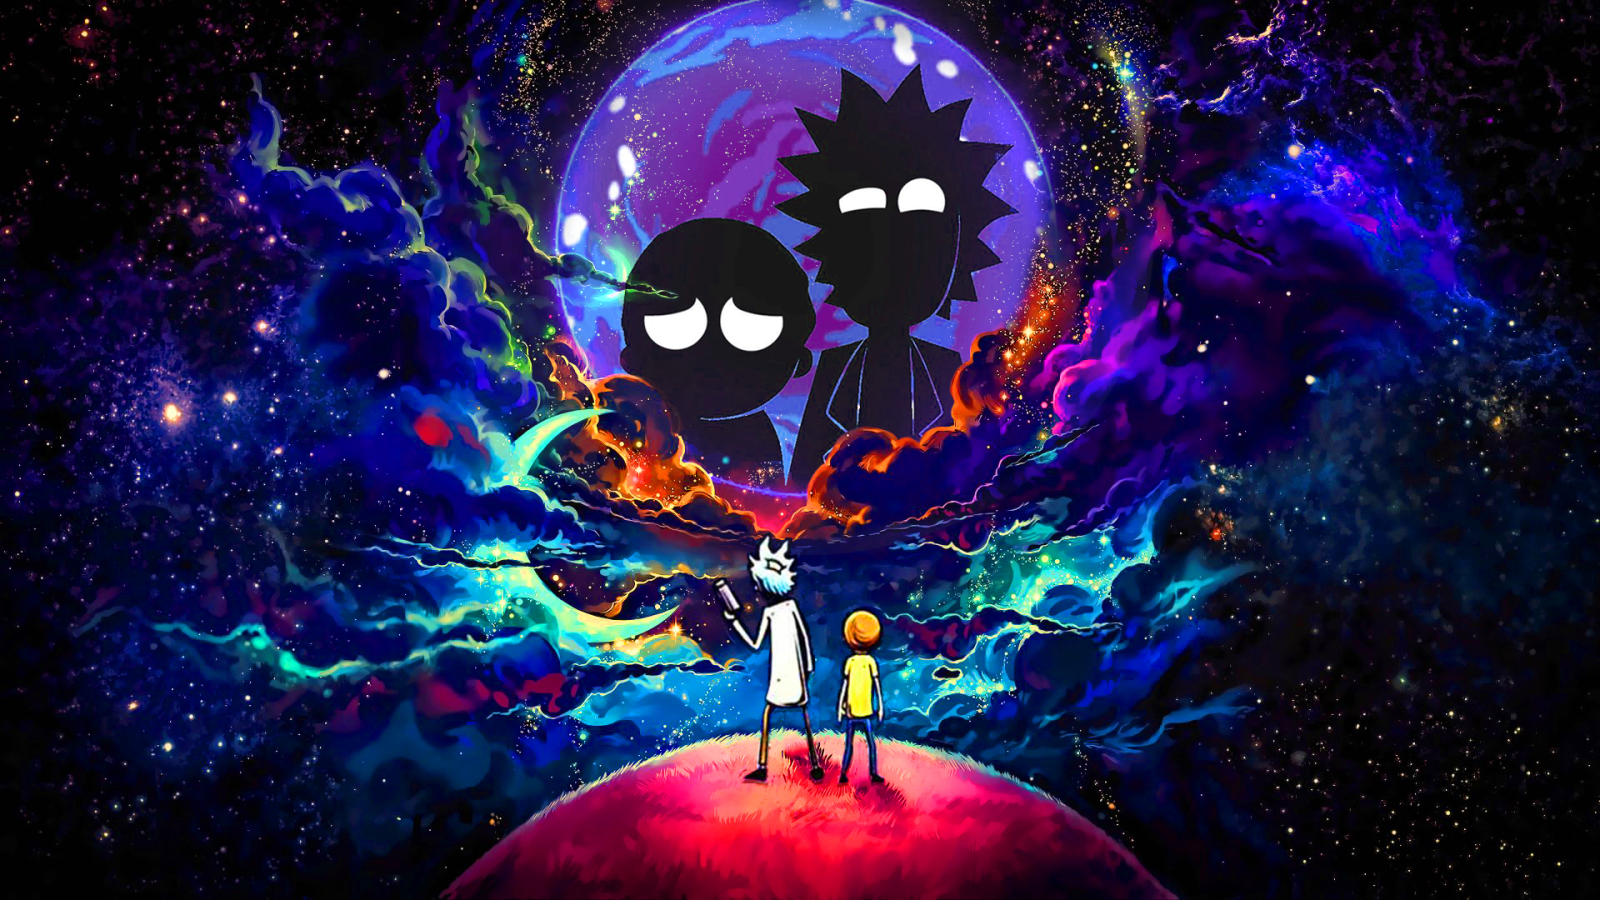
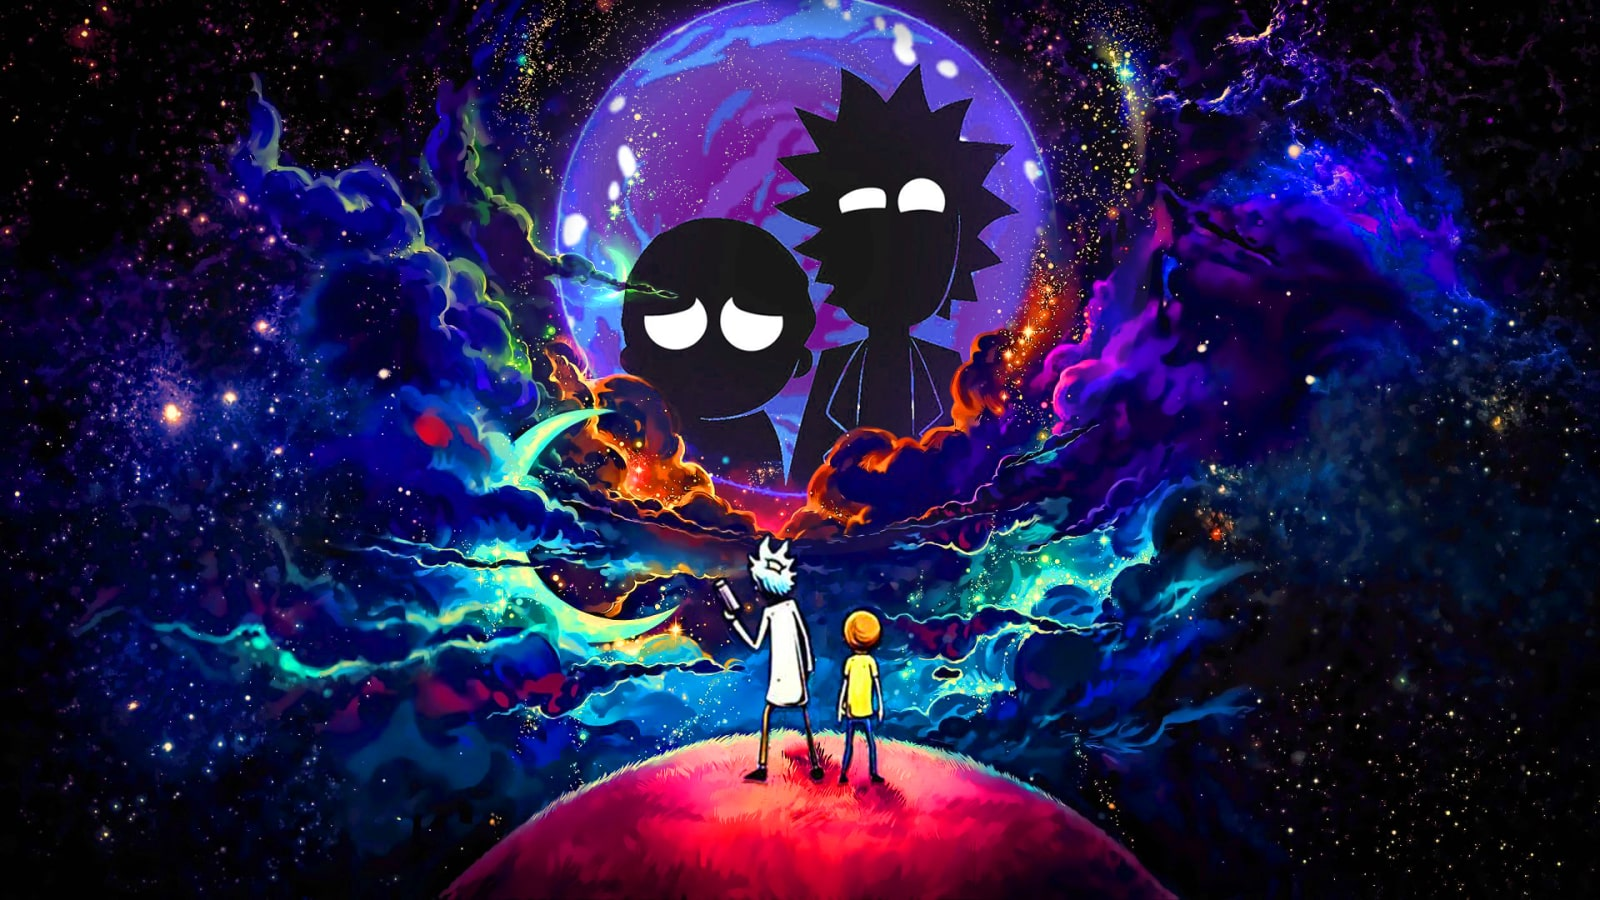
performance improvement based on lighthouse report + small bug fixes

diff --git a/src/App.tsx b/src/App.tsx
@@ -12,13 +12,13 @@ import Loading from "./components/loader";
 import { Form } from "./styledComponents/form";
 import { Catalog } from "./styledComponents/catalog";
 // Images
-import logo from "./assets/rick-and-morty-logo.png";
-import heart from "./assets/heart.png";
-import dead from "./assets/dead.png";
-import unknown from "./assets/unknown.png";
-import portal from "./assets/portal.png";
-import meeseeksBox from "./assets/meeseeksBox.png";
-import rick from "./assets/rick.png";
+import logo from "./assets/rick-and-morty-logo.webp";
+import heart from "./assets/heart.webp";
+import dead from "./assets/dead.webp";
+import unknown from "./assets/unknown.webp";
+import portal from "./assets/portal.webp";
+import meeseeksBox from "./assets/meeseeksBox.webp";
+import rick from "./assets/rick.webp";
 // APIs
 import { getCharactersData } from "./api/getCharacters";
 import { getSelectOptions } from "./api/getSelectOptions";
@@ -50,6 +50,7 @@ const App: React.FC = () => {
   const [state, dispatch] = useReducer(reducer, initialState);
   const { data, name, status, currentPage, totalPages, error, errorMessage, loading } = state
 
+  const [inputValue, setInputValue] = useState<string>('')
   const [options, setOptions] = useState<string[]>([]);
 
   // function that returns information about the characters
@@ -89,6 +90,7 @@ const App: React.FC = () => {
   // function that resets the form on button click (portal icon)
   const handleFormReset = () => {
     dispatch({ type: "RESET_FORM" })
+    setInputValue('')
   };
   // function that handles pagination
   const handlePagination = (pageNumber: number) => {
@@ -100,11 +102,12 @@ const App: React.FC = () => {
   };
   // function for the onChange event for the character's name input
   const handleChange = (e: React.ChangeEvent<HTMLInputElement>) => {
-    dispatch({ type: "INPUT_CHANGE", payload: e?.target.value })
+    setInputValue(e?.target.value)
+    debouncedInput(e?.target.value)
   };
-  /* added lodash debounce (kinda got lazy to write my own function for this) which updates the state 
-  value for the input after 0.3 seconds to minimize the number of api calls */
-  const debouncedInput = useMemo(() => debounce(handleChange, 300), []);
+  /* added lodash debounce (kinda got lazy to write my own function for this) which updates the reducer state 
+  for the input after 0.3 seconds to minimize the number of api calls */
+  const debouncedInput = useMemo(() => debounce((value) => dispatch({ type: "INPUT_CHANGE", payload: value }), 300), []);
   // onMount set the options for the select input based on the existing statuses returned from the /characters api
   useEffect(() => {
     getOptions();
@@ -116,13 +119,11 @@ const App: React.FC = () => {
 
   return (
     <Container>
-      {loading ? <Loading /> :
-        <>
           <img onClick={start} src={meeseeksBox} alt="" className="meeseeksBox" />
           <img src={logo} alt="logo" className="logo" />
 
           <Form onReset={handleFormReset}>
-            <TextField onChange={debouncedInput} placeholder={`Character's name`} />
+            <TextField value={inputValue} onChange={handleChange} placeholder={`Character's name`} />
             <SelectField
               value={status}
               onChange={handleSelectChange}
@@ -131,7 +132,8 @@ const App: React.FC = () => {
             <Button type="reset" imgSrc={portal} alt="" />
           </Form>
 
-          {error ? (
+          {loading ? <Loading /> :
+          error ? (
             <Error>
               <img src={rick} alt="" />
               <p> {errorMessage} </p>
@@ -166,7 +168,6 @@ const App: React.FC = () => {
               )}
             </>
           )}
-        </>}
     </Container>
   );
 };

diff --git a/src/styledComponents/characterDetailsContainer.ts b/src/styledComponents/characterDetailsContainer.ts
@@ -1,11 +1,10 @@
-
 import styled from "styled-components";
-import background from "../assets/background2.png";
+import background from "../assets/background2.webp";
 
 export const CharacterDetailsContainer = styled.div`
-  height: 100%;
-  min-height: 100vh;
-  background: linear-gradient(rgba(0, 0, 0, 0.4), rgba(0, 0, 0, 0.4)),
+height: 100%;
+min-height: 100vh;
+  background: linear-gradient(rgba(0, 0, 0, 0.2), rgba(0, 0, 0, 0.2)),
     url(${background});
   background-repeat: no-repeat;
   background-position: center center;
@@ -126,7 +125,8 @@ export const CharacterDetailsContainer = styled.div`
     display: flex;
     justifiy-content: center;
     align-items: center;
-
+    font-weight:bold;
+    
     img {
       height: 50px;
     }
@@ -149,7 +149,8 @@ export const CharacterDetailsContainer = styled.div`
     justifiy-content: center;
     align-items: center;
     color: #e0ac69;
-
+    font-weight:bold;
+    
     img {
       margin-right: 5px;
       height: 40px;
@@ -161,6 +162,7 @@ export const CharacterDetailsContainer = styled.div`
     justifiy-content: center;
     align-items: center;
     color: #858585;
+    font-weight:bold;
 
     img {
       height: 50px;
@@ -181,6 +183,9 @@ export const CharacterDetailsContainer = styled.div`
   }
 
   @media (max-width: 420px) {
+    .camera {
+        height:15vh;
+    }
     .characterInfo {
       div {
         flex-direction: column;

diff --git a/src/components/characterDetails.tsx b/src/components/characterDetails.tsx
@@ -6,15 +6,15 @@ import Loading from "./loader";
 import { getSingleCharacterData } from "../api/getSingleCharacter";
 import { getEpisodeName } from "../api/getEpisode";
 // Images
-import male from "../assets/male.png";
-import female from "../assets/female.png";
-import heart from "../assets/heart.png";
-import species from "../assets/species.png";
-import location from "../assets/location.png";
-import camera from "../assets/camera.png";
-import genderless from "../assets/genderless.png";
-import unknown from "../assets/unknown.png";
-import dead from "../assets/dead.png";
+import male from "../assets/male.webp";
+import female from "../assets/female.webp";
+import heart from "../assets/heart.webp";
+import species from "../assets/species.webp";
+import location from "../assets/location.webp";
+import camera from "../assets/camera.webp";
+import genderless from "../assets/genderless.webp";
+import unknown from "../assets/unknown.webp";
+import dead from "../assets/dead.webp";
 // Styled component
 import { CharacterDetailsContainer } from "../styledComponents/characterDetailsContainer";
 // Interface

diff --git a/src/index.css b/src/index.css
@@ -4,7 +4,7 @@
 }
 
 * {
-  cursor:url(./assets//rickCursor.png), auto;
+  cursor:url(./assets//rickCursor.webp), auto;
 }
 
 body {
@@ -15,10 +15,16 @@ body {
   -webkit-font-smoothing: antialiased;
   -moz-osx-font-smoothing: grayscale;
   height:100%;
+  -ms-overflow-style: none;
+  scrollbar-width: none;
 }
 
 div#root {
   height: 100%;
+}
+
+::-webkit-scrollbar {
+  display: none;
 }
 
 code {

diff --git a/src/styledComponents/appContainer.ts b/src/styledComponents/appContainer.ts
@@ -1,6 +1,6 @@
 import styled from "styled-components";
 import background from "../assets/background.jpg";
-import gun from "../assets/gun.png";
+import gun from "../assets/gun.webp";
 
 export const Container = styled.div`
   height: 100%;

diff --git a/src/styledComponents/card.ts b/src/styledComponents/card.ts
@@ -1,5 +1,5 @@
 import styled from "styled-components";
-import gun from "../assets/gun.png";
+import gun from "../assets/gun.webp";
 
 export const CardContainer = styled.div`
   box-shadow: 0px 0px 3px 2px rgb(180, 217, 74);

diff --git a/src/styledComponents/button.ts b/src/styledComponents/button.ts
@@ -1,5 +1,5 @@
 import styled from "styled-components";
-import ship from "../assets/ship.png";
+import ship from "../assets/ship.webp";
 
 export const Button = styled.button`
     background:transparent;

diff --git a/src/styledComponents/pagination.ts b/src/styledComponents/pagination.ts
@@ -1,5 +1,5 @@
 import styled from "styled-components";
-import gun from "../assets/gun.png";
+import gun from "../assets/gun.webp";
 
 export const PaginationWrapper = styled.div`
   padding: 2rem 0;

diff --git a/src/components/loader.tsx b/src/components/loader.tsx
@@ -1,4 +1,4 @@
-import portal from '../assets/portal.png'
+import portal from '../assets/portal.webp'
 import styled from 'styled-components';
 
 const Loader = styled.div`
